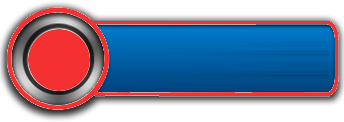
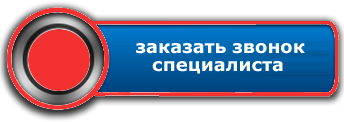
Форма обратной связи

Changed region(s): [[0.3779, 0.3443, 0.9012, 0.4426], [0.436, 0.4918, 0.843, 0.6148]]

diff --git a/Электромонтаж/index.html b/Электромонтаж/index.html
@@ -179,6 +179,21 @@
             <hr>
         </div>
 
+        <div class="container">
+            <div class="price">
+                <h2>стоимость часто заказываемых услуг</h2>
+                <table>
+                    <tr>
+                        <th>Проблема</th>
+                        <th>Стоимость</th>
+                        <th>В чем может быть дело?</th>
+                    </tr>
+                    <tr>
+
+                    </tr>
+                </table>
+            </div>
+        </div>
 
         <div class="container">
             <div class="reviews">
@@ -252,6 +267,23 @@
                 считая оба направления.
             </div>
         </div>
+
+
+
+
+
+        <!-- ФОРМА ОБРАТНОЙ СВЯЗИ -->
+        <div class="container">
+            <div class="feedback">
+                <div class="feedback__title"><span>Заказать</span> <br>Обратный звонок!</div>
+                <form action="">
+                    <input class="feedback__form__input" type="tel" placeholder="+7(888) 888-88-88"><br>
+                    <input class="feedback__form__btn" type="button" value="Отправить запрос">
+                </form>
+            </div>            
+        </div>
+
+
 </body>
 
 </html>

diff --git a/Электромонтаж/css/style.css b/Электромонтаж/css/style.css
@@ -348,7 +348,9 @@
   }
   
 
-
+body{
+    font-family: Verdana;;
+}
 header{
     background: #00579a;
     position: relative;
@@ -473,4 +475,40 @@ h2{
   font-family: Verdana;
   font-size: 24px;
   font-weight: 700;
+}
+
+
+
+.feedback{
+  width: 300px;
+  background: #fbfbfb;
+  box-shadow: 0px 1px 10px
+  #000;
+  text-align: center;
+  margin: 0 auto;
+}
+.feedback__title{
+  color: #565757;
+  font-family: Verdana;
+  font-size: 16px;
+  margin-bottom: 14px;;
+}
+.feedback__title span{
+  font-weight: 700;
+  font-size: 25px;
+  color: #000000;
+}
+.feedback input{
+  margin-bottom: 14px;
+  text-align: center;
+
+}
+.feedback__form__btn{
+  background: #2996f1;
+  color: #ffffff;
+  border: 1px solid #cccccc;
+  padding: 8px 29px;
+}
+.feedback__form__input{
+  color: #000000;
 }
